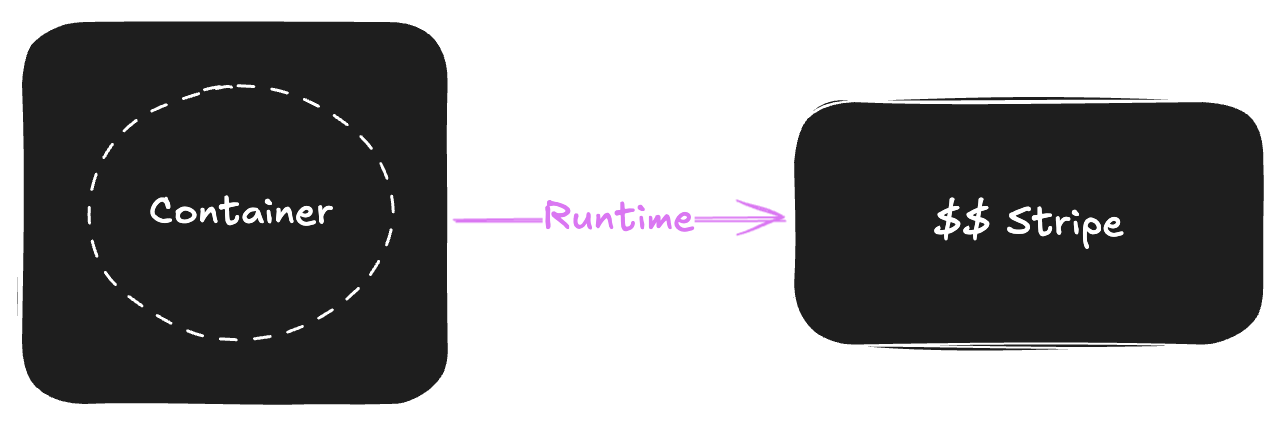
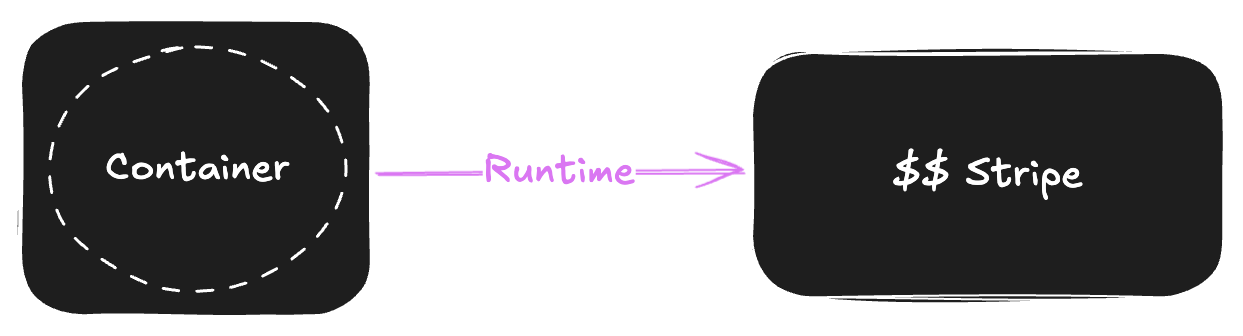
better docs

diff --git a/README.md b/README.md
@@ -52,7 +52,7 @@ Nebulous enables containers to be suspended and restored at any point in time us
 Accelerated resources are expensive. Nebulous comes batteries-included with primitives for metered billing using [OpenMeter](https://github.com/openmeterio/openmeter).
 
 <div align="center">
-<img src="./static/stripe.png" alt="description" width="450" height="175"/>
+<img src="./static/stripe.png" alt="description" width="450" height="125"/>
 </div>
 
 
@@ -67,8 +67,6 @@ Nebulous is multi-tenant from the ground up, providing strong isolation of workl
 ### Lightweight
 
 Everything in Nebulous is built to be light as a feather, it should feel the opposite of Kubernetes. You can spin it up easily on your local machine as a single process, while still enabling you to seemlessly scale to thousands of nodes in the cloud when needed.
-
-Nebulous should be as cheap as possible when idle.
 
 <div align="center">
 <img src="./static/local.png" alt="description" width="400" height="200"/>
